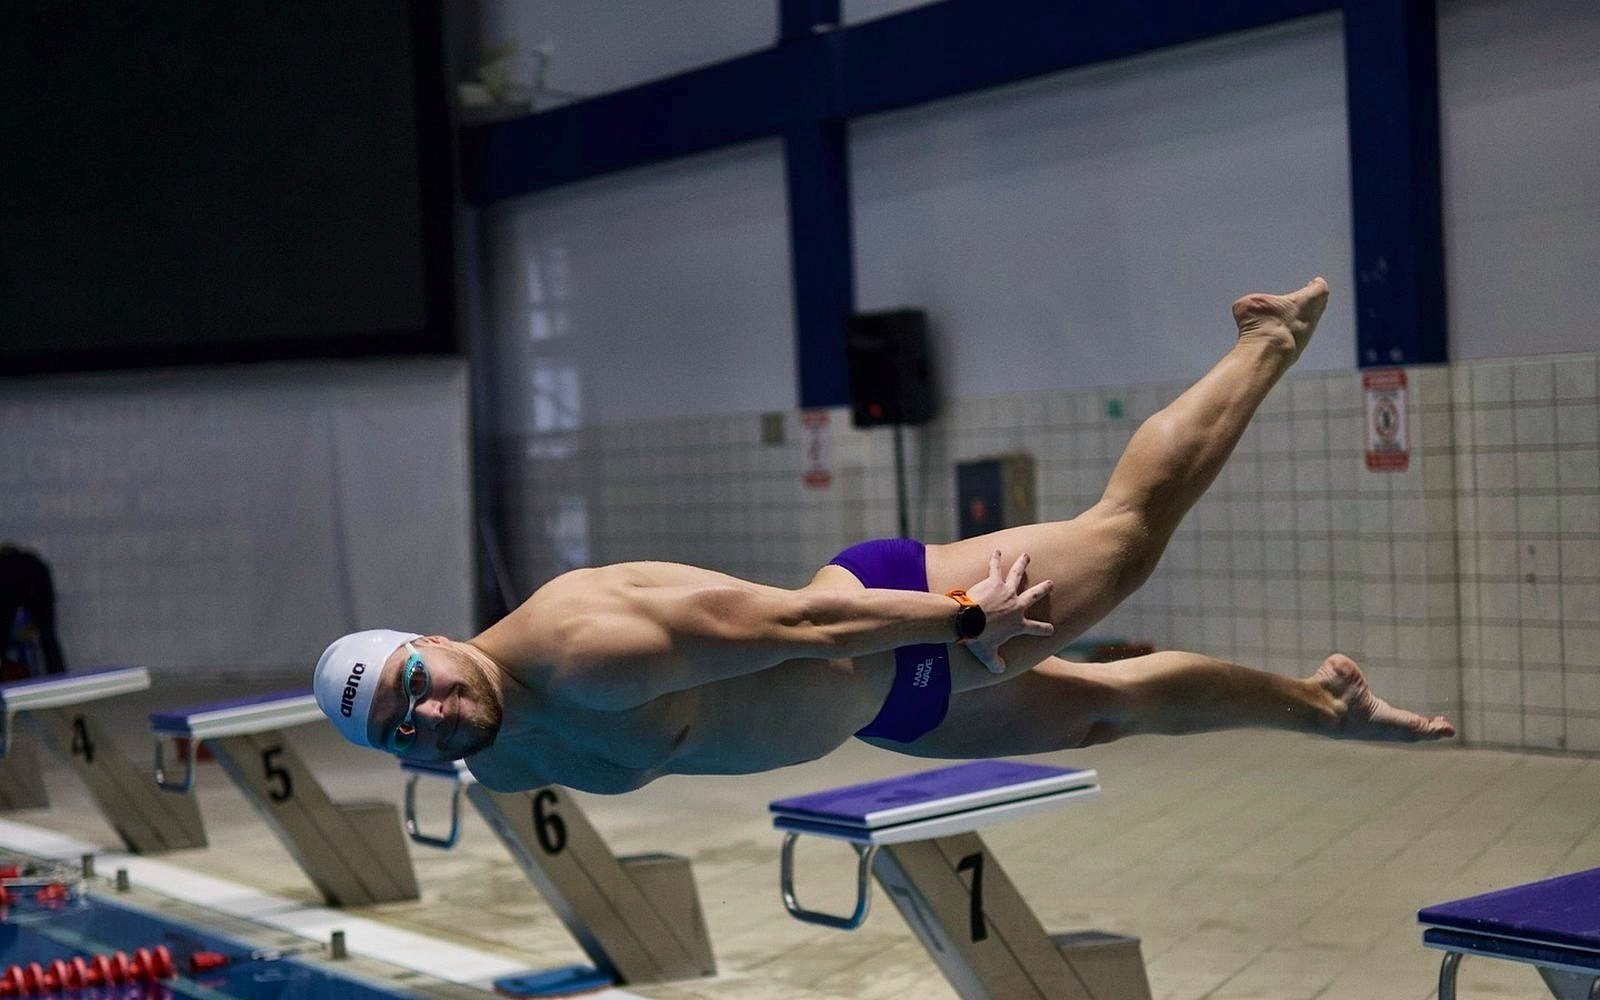
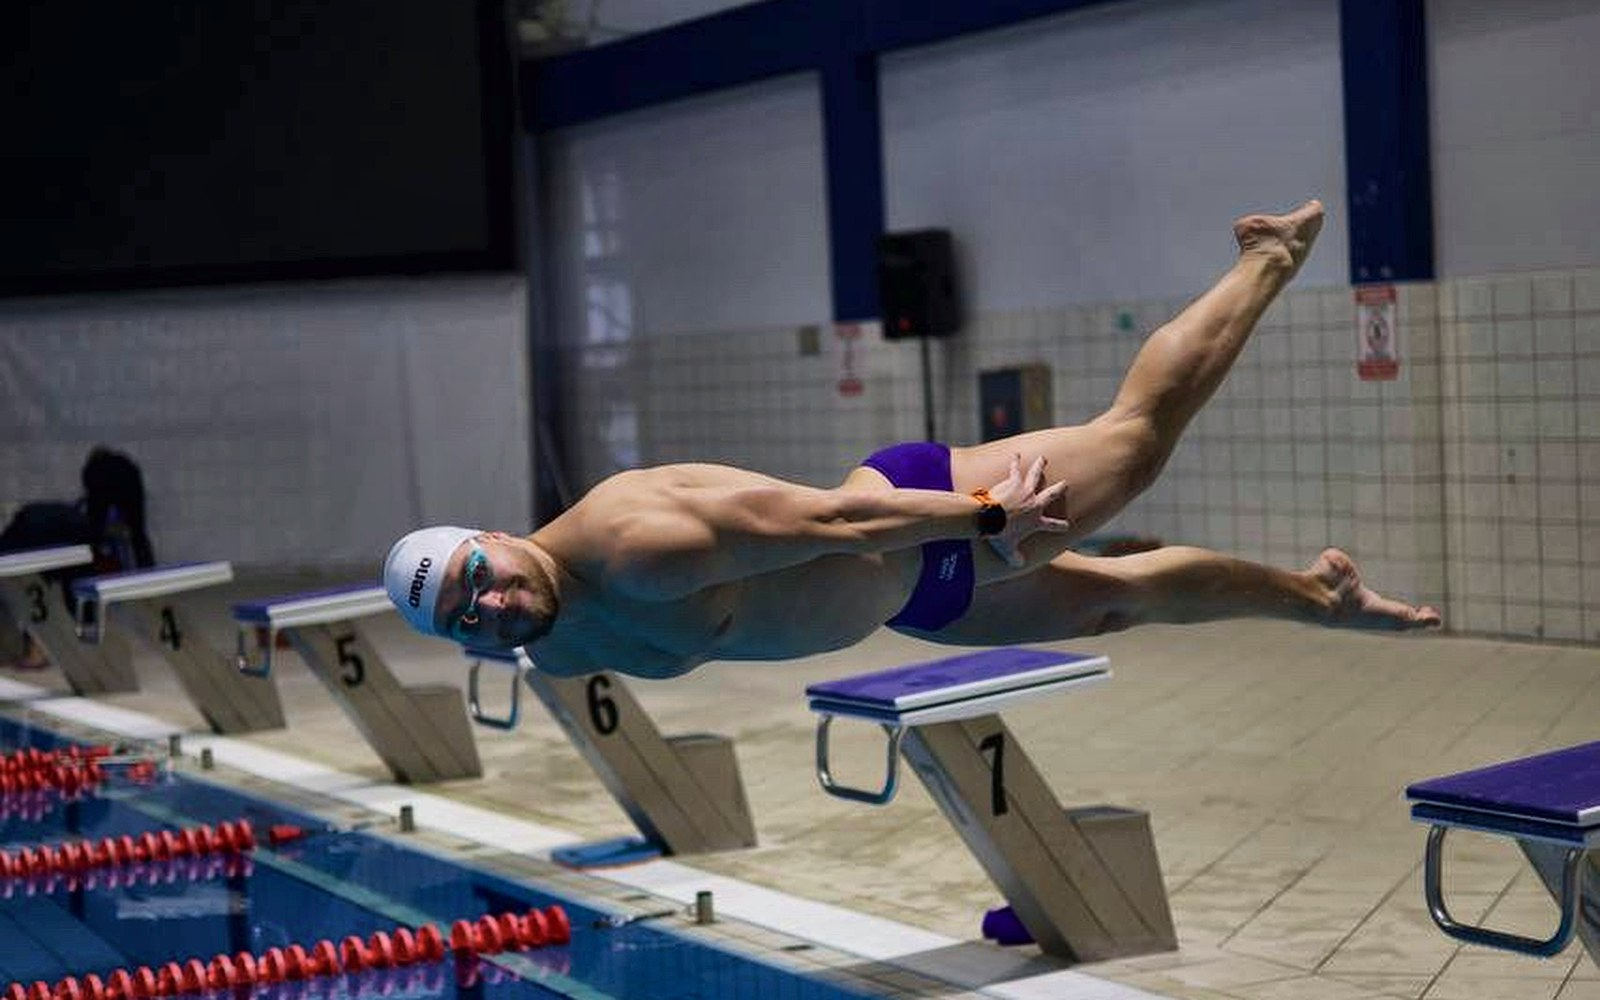
Первый экран: на закате голова ниже, на прыжке туловище по центру

diff --git a/index.html b/index.html
@@ -20,7 +20,7 @@
   <meta name="twitter:card" content="summary_large_image">
   <link rel="preload" href="fonts/inter-cyrillic.woff2" as="font" type="font/woff2" crossorigin>
     <script>document.documentElement.classList.add('js')</script>
-  <link rel="stylesheet" href="css/style.css?v=1789643223">
+  <link rel="stylesheet" href="css/style.css?v=1789643751">
   <script type="application/ld+json">{"@context": "https://schema.org", "@graph": [{"@type": "Person", "@id": "https://akifevav0-droid.github.io/shabarshov/#person", "name": "Анатолий Шабаршов", "jobTitle": "Тренер по плаванию", "description": "Мастер спорта по плаванию, тренер для взрослых. Групповые и персональные тренировки в Москве, подготовка к открытой воде и триатлону.", "url": "https://akifevav0-droid.github.io/shabarshov/", "image": "https://akifevav0-droid.github.io/shabarshov/img/anatoliy_hero.jpg", "sameAs": ["https://profi.ru/profile/ShabarshovAS/", "https://www.instagram.com/shabarshov_/", "https://t.me/shabarshov", "https://t.me/shabarshov_club"], "address": {"@type": "PostalAddress", "addressLocality": "Москва", "addressCountry": "RU"}, "alumniOf": ["Училище олимпийского резерва", "РГУФК (РГУФКСМиТ)"], "award": ["Мастер спорта по плаванию", "Всемирные игры Masters, Абу-Даби 2026: 2-е место"]}, {"@type": "SportsOrganization", "@id": "https://akifevav0-droid.github.io/shabarshov/#club", "name": "SHABARSHOV swimming club", "url": "https://akifevav0-droid.github.io/shabarshov/", "founder": {"@id": "https://akifevav0-droid.github.io/shabarshov/#person"}, "areaServed": "Москва", "sport": "Плавание", "makesOffer": [{"@type": "Offer", "price": "0", "priceCurrency": "RUB", "itemOffered": {"@type": "Service", "name": "Пробная тренировка по плаванию"}}, {"@type": "Offer", "price": "13600", "priceCurrency": "RUB", "itemOffered": {"@type": "Service", "name": "Абонемент на 8 групповых тренировок"}}, {"@type": "Offer", "price": "7500", "priceCurrency": "RUB", "itemOffered": {"@type": "Service", "name": "Абонемент на 4 групповые тренировки"}}, {"@type": "Offer", "price": "2000", "priceCurrency": "RUB", "itemOffered": {"@type": "Service", "name": "Разовая групповая тренировка"}}, {"@type": "Offer", "price": "3000", "priceCurrency": "RUB", "description": "от 3 000 ₽ + проход в бассейн", "itemOffered": {"@type": "Service", "name": "Персональная тренировка по плаванию"}}, {"@type": "Offer", "price": "3500", "priceCurrency": "RUB", "description": "за час", "itemOffered": {"@type": "Service", "name": "Тренировка на открытой воде"}}]}, {"@type": "SportsActivityLocation", "@id": "https://akifevav0-droid.github.io/shabarshov/#pool1", "name": "Бассейн СК МГТУ им. Баумана", "sport": "Плавание", "parentOrganization": {"@id": "https://akifevav0-droid.github.io/shabarshov/#club"}, "address": {"@type": "PostalAddress", "streetAddress": "Госпитальная наб., 4, стр. 1", "addressLocality": "Москва", "addressCountry": "RU"}, "openingHoursSpecification": [{"@type": "OpeningHoursSpecification", "dayOfWeek": ["Monday", "Thursday"], "opens": "19:45"}, {"@type": "OpeningHoursSpecification", "dayOfWeek": ["Monday", "Thursday"], "opens": "20:30"}], "description": "Группы: 19:45 средний и продвинутый уровень, 20:30 начинающий и средний, м. Электрозаводская"}, {"@type": "SportsActivityLocation", "@id": "https://akifevav0-droid.github.io/shabarshov/#pool2", "name": "Формула Воды", "sport": "Плавание", "parentOrganization": {"@id": "https://akifevav0-droid.github.io/shabarshov/#club"}, "address": {"@type": "PostalAddress", "streetAddress": "Мироновская ул., 27, стр. 2", "addressLocality": "Москва", "addressCountry": "RU"}, "openingHoursSpecification": [{"@type": "OpeningHoursSpecification", "dayOfWeek": ["Tuesday", "Friday"], "opens": "20:45"}], "description": "Группа начинающего и среднего уровня, м. Семёновская"}, {"@type": "SportsActivityLocation", "@id": "https://akifevav0-droid.github.io/shabarshov/#pool3", "name": "Акватория ЗИЛ", "sport": "Плавание", "parentOrganization": {"@id": "https://akifevav0-droid.github.io/shabarshov/#club"}, "address": {"@type": "PostalAddress", "streetAddress": "Автозаводская ул., 23А к4", "addressLocality": "Москва", "addressCountry": "RU"}, "openingHoursSpecification": [{"@type": "OpeningHoursSpecification", "dayOfWeek": ["Wednesday", "Friday"], "opens": "07:45"}], "description": "Мини-группа до 5 человек"}, {"@type": "SportsActivityLocation", "@id": "https://akifevav0-droid.github.io/shabarshov/#pool4", "name": "Лужники", "sport": "Плавание", "parentOrganization": {"@id": "https://akifevav0-droid.github.io/shabarshov/#club"}, "address": {"@type": "PostalAddress", "addressLocality": "Москва", "addressCountry": "RU"}, "description": "Персональные тренировки по договорённости, м. Спортивная"}, {"@type": "FAQPage", "mainEntity": [{"@type": "Question", "name": "Я не умею плавать. С чего начать?", "acceptedAnswer": {"@type": "Answer", "text": "С бесплатной пробной тренировки. За первое занятие вы подружитесь с водой и станете увереннее. Дальше подберём формат: группу по уровню или персональные занятия."}}, {"@type": "Question", "name": "Что взять на первую тренировку?", "acceptedAnswer": {"@type": "Answer", "text": "Справку для бассейна (как получить, расскажу при записи), купальник или плавки, шапочку, очки, сланцы, полотенце."}}, {"@type": "Question", "name": "Как проходит тренировка?", "acceptedAnswer": {"@type": "Answer", "text": "Час в воде: разминка, основное задание, заминка. Показываю упражнения сам и поправляю по ходу."}}, {"@type": "Question", "name": "Что, если пропущу занятие?", "acceptedAnswer": {"@type": "Answer", "text": "Предупредите заранее, и найдём, как отработать. Пропуск без предупреждения не переносится."}}]}]}</script>
 </head>
 <body>
@@ -43,7 +43,7 @@
   <section class="anchor trener-top" id="trener">
     <div>
       <div class="portret">
-        <div class="portret__photo slides"><img class="slide is-on" src="img/wide_goggles.jpg?v=20260917" width="1600" height="1000" alt="Анатолий Шабаршов в воде у бортика бассейна" loading="lazy" decoding="async"><img class="slide" src="img/wide_doha.jpg?v=20260917" width="1600" height="1000" alt="Анатолий Шабаршов у открытого бассейна на закате, Доха" aria-hidden="true" loading="lazy" decoding="async"><img class="slide" src="img/wide_dive.jpg" width="1600" height="1000" alt="Анатолий Шабаршов в прыжке со стартовой тумбы" aria-hidden="true" loading="lazy" decoding="async"><img class="slide" src="img/wide_pool.jpg?v=20260917" width="1600" height="1000" alt="Анатолий Шабаршов в воде у дорожки бассейна" aria-hidden="true" loading="lazy" decoding="async"><img class="slide" src="img/wide_finish.jpg?v=20260917" width="1600" height="1000" alt="Анатолий Шабаршов на финише заплыва на открытой воде" aria-hidden="true" loading="lazy" decoding="async"><img class="slide" src="img/wide_underwater.jpg" width="1920" height="1200" alt="Анатолий Шабаршов плывёт кролем, съёмка под водой" aria-hidden="true" loading="lazy" decoding="async"></div>
+        <div class="portret__photo slides"><img class="slide is-on" src="img/wide_goggles.jpg?v=20260917" width="1600" height="1000" alt="Анатолий Шабаршов в воде у бортика бассейна" loading="lazy" decoding="async"><img class="slide" src="img/wide_doha.jpg?v=20260917b" width="1600" height="1000" alt="Анатолий Шабаршов у открытого бассейна на закате, Доха" aria-hidden="true" loading="lazy" decoding="async"><img class="slide" src="img/wide_dive.jpg?v=20260917c" width="1600" height="1000" alt="Анатолий Шабаршов в прыжке со стартовой тумбы" aria-hidden="true" loading="lazy" decoding="async"><img class="slide" src="img/wide_pool.jpg?v=20260917" width="1600" height="1000" alt="Анатолий Шабаршов в воде у дорожки бассейна" aria-hidden="true" loading="lazy" decoding="async"><img class="slide" src="img/wide_finish.jpg?v=20260917" width="1600" height="1000" alt="Анатолий Шабаршов на финише заплыва на открытой воде" aria-hidden="true" loading="lazy" decoding="async"><img class="slide" src="img/wide_underwater.jpg" width="1920" height="1200" alt="Анатолий Шабаршов плывёт кролем, съёмка под водой" aria-hidden="true" loading="lazy" decoding="async"></div>
       <div class="portret__card">
         <div class="caps" aria-live="polite">
           <div class="cap is-on"><h2>В воде рядом с&nbsp;вами,<br>а&nbsp;не&nbsp;на&nbsp;бортике</h2><p>Смотрю на&nbsp;технику под водой.</p></div>

diff --git a/css/style.css b/css/style.css
@@ -1757,3 +1757,10 @@ main h2, main h3, .end__title, #faq .faq-i h3, .sheet__title { font-weight: 500 
 /* Шестой кадр — под водой */
 @media (max-width: 734px) { .trener-top .portret__photo .slide:nth-child(6) { object-position: 47% 50% !important; } }
 @media (min-width: 735px) { .trener-top .portret__photo .slide:nth-child(6) { object-position: 50% 45% !important; } }
+/* Компьютер: закат и прыжок — фигура по центру высоты */
+@media (min-width: 735px) {
+  .trener-top .portret__photo .slide:nth-child(2) { object-position: 73% 40% !important; }
+  .trener-top .portret__photo .slide:nth-child(3) { object-position: 27% 55% !important; }
+}
+@media (min-width: 735px) { .trener-top .portret__photo .slide:nth-child(3) { object-position: 27% 48% !important; } }
+@media (max-width: 734px) { .trener-top .portret__photo .slide:nth-child(3) { object-position: 30% 50% !important; transform: none !important; } }
